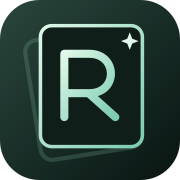
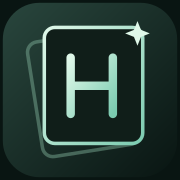
feat: rebrand product as HoloKeep

diff --git a/index.html b/index.html
@@ -9,15 +9,15 @@
   <meta http-equiv="Expires" content="0" />
   <meta name="apple-mobile-web-app-capable" content="yes" />
   <meta name="apple-mobile-web-app-status-bar-style" content="black-translucent" />
-  <meta name="apple-mobile-web-app-title" content="RareWorth" />
-  <link rel="icon" href="icon-rareworth.svg?build=168-product-shell-cleanup" type="image/svg+xml" />
-  <link rel="apple-touch-icon" href="icon-rareworth-180.png?build=168-product-shell-cleanup" />
-  <script src="brand-v172.js?build=172-brand-foundation"></script>
-  <title>RareWorth · Zoek. Bewaar. Check.</title>
+  <meta name="apple-mobile-web-app-title" content="HoloKeep" />
+  <link rel="icon" href="icon-rareworth.svg?build=173-holokeep-rebrand" type="image/svg+xml" />
+  <link rel="apple-touch-icon" href="icon-rareworth-180.png?build=173-holokeep-rebrand" />
+  <script src="brand-v172.js?build=173-holokeep-rebrand"></script>
+  <title>HoloKeep · Zoek. Bewaar. Check.</title>
   <link rel="stylesheet" href="style-v137-product.css?build=168-product-shell-cleanup" />
   <link rel="stylesheet" href="style-v148-polish.css?build=168-product-shell-cleanup" />
   <link rel="stylesheet" href="style-v150-minimal.css?build=168-product-shell-cleanup" />
-  <link rel="manifest" href="manifest.json?build=168-product-shell-cleanup" />
+  <link rel="manifest" href="manifest.json?build=173-holokeep-rebrand" />
   <link rel="stylesheet" href="style-v153-mobile.css?build=168-product-shell-cleanup" />
   <link rel="stylesheet" href="account-v170.css?build=170b-account-cloud-sync" />
   <link rel="stylesheet" href="onboarding-v171.css?build=171-1-launch-gate" />
@@ -25,9 +25,9 @@
 <body class="onboarding-open">
   <section id="onboarding" role="dialog" aria-modal="true" aria-labelledby="onboardingTitle">
     <div class="onboardingContent">
-      <div class="onboardingBrand"><img src="icon-rareworth.svg?build=168-product-shell-cleanup" alt="" /><strong>RareWorth</strong></div>
+      <div class="onboardingBrand"><img src="icon-rareworth.svg?build=173-holokeep-rebrand" alt="" /><strong>HoloKeep</strong></div>
       <p class="onboardingEyebrow">POKÉMON TCG COLLECTIE</p>
-      <h1 id="onboardingTitle">Welkom bij RareWorth</h1>
+      <h1 id="onboardingTitle">Welkom bij HoloKeep</h1>
       <p>Zoek kaarten, beheer je collectie en bewaar je gegevens veilig.</p>
       <div id="onboardingLoading" hidden><p role="status">Je account openen…</p><button id="onboardingSkip" type="button" class="onboardingSecondary">Doorgaan als gast</button></div>
       <div id="onboardingChoices">
@@ -65,9 +65,9 @@
     <header class="topbar">
       <button type="button" class="brandCluster" id="brandHomeBtn" aria-label="Ga naar zoeken">
         <span class="brandMark" aria-hidden="true">
-          <img class="brandIcon" src="icon-rareworth.svg?build=168-product-shell-cleanup" alt="" />
+          <img class="brandIcon" src="icon-rareworth.svg?build=173-holokeep-rebrand" alt="" />
         </span>
-        <span class="brandText"><strong>RareWorth</strong><small>Je kaarten. Goed bewaard.</small></span>
+        <span class="brandText"><strong>HoloKeep</strong><small>Je kaarten. Goed bewaard.</small></span>
       </button>
       <div id="status" class="status statusChip" role="status" aria-live="polite">Klaar</div>
     </header>
@@ -76,7 +76,7 @@
       <!-- SCAN -->
       <section class="tabView" data-view="scan" aria-labelledby="navScan">
         <div class="scanHero">
-          <div><span class="eyebrow">Scanner</span><h1>Scan een kaart</h1><p>Maak een foto. RareWorth doet de rest automatisch.</p></div>
+          <div><span class="eyebrow">Scanner</span><h1>Scan een kaart</h1><p>Maak een foto. HoloKeep doet de rest automatisch.</p></div>
           <button type="button" class="prefsPill" id="scanPrefsBtn" aria-label="Open zoekvoorkeuren"><span id="scanPrefsText">EN · NM</span><svg viewBox="0 0 24 24" aria-hidden="true"><path d="m9 18 6-6-6-6"/></svg></button>
         </div>
 
@@ -262,7 +262,7 @@
 
       <!-- SETTINGS -->
       <section class="tabView" data-view="settings" aria-labelledby="navSettings">
-        <div class="screenIntro compact"><div><span class="eyebrow">RareWorth</span><h2>Instellingen</h2><p>Voorkeuren, privacy en backup.</p></div></div>
+        <div class="screenIntro compact"><div><span class="eyebrow">HoloKeep</span><h2>Instellingen</h2><p>Voorkeuren, privacy en backup.</p></div></div>
 
         <section class="surface settingsCard">
           <div class="settingsRow"><div class="settingsIcon"><svg viewBox="0 0 24 24"><path d="M12 3 5 6v5c0 4.7 2.8 8 7 10 4.2-2 7-5.3 7-10V6l-7-3Z"/><path d="m9 12 2 2 4-4"/></svg></div><div><b>Privacy</b><small>Je collectie blijft lokaal op je toestel</small></div><span class="mutedBadge">Lokaal</span></div>
@@ -302,7 +302,7 @@
         </section>
 
         <section class="surface settingsCard"><h3>Startscherm</h3><button id="onboardingReopen" type="button" class="ghost">Startscherm opnieuw bekijken</button></section>
-        <section class="surface aboutCard" aria-label="Over RareWorth"><div><b>Over RareWorth</b><small>Je kaarten. Goed bewaard.</small><small>Collectie lokaal opgeslagen</small></div><div class="aboutMeta"><span>v172 · Beta</span></div></section>
+        <section class="surface aboutCard" aria-label="Over HoloKeep"><div><b>Over HoloKeep</b><small>Je kaarten. Goed bewaard.</small><small>Collectie lokaal opgeslagen</small></div><div class="aboutMeta"><span>v173 · Beta</span></div></section>
       </section>
     </div>
   </main>
@@ -398,7 +398,7 @@
   <script src="jp-image-library-v161.js?build=161-jp-image-library"></script>
   <script src="ui-v137-focus.js?build=160-jp-set-coverage"></script>
   <script src="ui-v137-collection.js?build=165-jp-source-identity"></script>
-  <script src="ui-v150-experience.js?build=171-onboarding-product-polish"></script>
+  <script src="ui-v150-experience.js?build=173-holokeep-rebrand"></script>
   <script src="ui-v154-keyboard.js?build=154-keyboard"></script>
   <script src="ui-v153-mobile.js?build=154-keyboard"></script>
   <script src="cloud-sync-v170.js?build=170b-account-cloud-sync"></script>

diff --git a/sw.js b/sw.js
@@ -1,14 +1,14 @@
 'use strict';
 // Bump this version when the shell changes. Never cache remote card data/artwork.
-const CACHE = 'rareworth-shell-v172';
+const CACHE = 'rareworth-shell-v173';
 const SCOPE = new URL('./', self.registration.scope);
 const INDEX = new URL('index.html', SCOPE).href;
 const ASSETS = [
   'index.html',
-  'brand-v172.js?build=172-brand-foundation',
-  'manifest.json?build=168-product-shell-cleanup',
-  'icon-rareworth.svg?build=168-product-shell-cleanup',
-  'icon-rareworth-180.png?build=168-product-shell-cleanup',
+  'brand-v172.js?build=173-holokeep-rebrand',
+  'manifest.json?build=173-holokeep-rebrand',
+  'icon-rareworth.svg?build=173-holokeep-rebrand',
+  'icon-rareworth-180.png?build=173-holokeep-rebrand',
   'icon-rareworth-192.png', 'icon-rareworth-512.png',
   'style-v137-product.css?build=168-product-shell-cleanup',
   'style-v148-polish.css?build=168-product-shell-cleanup',
@@ -27,7 +27,7 @@ const ASSETS = [
   'jp-image-library-v161.js?build=161-jp-image-library',
   'ui-v137-focus.js?build=160-jp-set-coverage',
   'ui-v137-collection.js?build=165-jp-source-identity',
-  'ui-v150-experience.js?build=171-onboarding-product-polish',
+  'ui-v150-experience.js?build=173-holokeep-rebrand',
   'ui-v154-keyboard.js?build=154-keyboard',
   'ui-v153-mobile.js?build=154-keyboard',
   'cloud-sync-v170.js?build=170b-account-cloud-sync',

diff --git a/ui-v150-experience.js b/ui-v150-experience.js
@@ -92,7 +92,7 @@
       // Home Recent presentation only: keep external-beta artwork elsewhere intact.
       if(isDirect&&target.closest('#homeRecentCards')){
         target.dataset.imageStatus='EXTERNAL_BETA';target.classList.remove('artLoading','artUnavailable');
-        target.classList.add('homeJpPlaceholder');target.textContent='RareWorth · JP';return;
+        target.classList.add('homeJpPlaceholder');target.textContent=window.RareWorthBrand.name+' · JP';return;
       }
       const img=new Image();img.alt=card.name||'Kaart';img.decoding='async';
       img.onload=()=>{if(pending.get(target)===card)target.classList.remove('artLoading');};

diff --git a/brand-v172.js b/brand-v172.js
@@ -3,11 +3,11 @@
   'use strict';
   if ('RareWorthBrand' in window) return;
   const brand = Object.freeze({
-    name: 'RareWorth',
-    shortName: 'RareWorth',
+    name: 'HoloKeep',
+    shortName: 'HoloKeep',
     tagline: 'Je kaarten. Goed bewaard.',
-    appTitle: 'RareWorth · Zoek. Bewaar. Check.',
-    version: 'v172',
+    appTitle: 'HoloKeep · Zoek. Bewaar. Check.',
+    version: 'v173',
     status: 'Beta'
   });
   Object.defineProperty(window, 'RareWorthBrand', {value: brand, enumerable: true});

diff --git a/docs/BRAND-V172.md b/docs/BRAND-V172.md
@@ -170,19 +170,20 @@ G = PWA/manifest; H = tests/docs. Multiple categories can apply within one file.
 | artifacts/rareworth-v150/v147-pending-1280.png | E | — | yes |
 | artifacts/rareworth-v150/v147-pending-375.png | E | — | yes |
 | assets/cards/jp/README.md | B, H | 1, 61, 70 | no |
-| brand-v172.js | A, B | 4, 6, 7, 9, 13 | no |
+| brand-v172.js | A, B | 4, 13 | no |
 | cloud-adapter-v170.js | B, C, D | 4, 7, 84 | no |
 | cloud-sync-v170.js | B, D | 6, 9, 148 | no |
 | data/jp-cardmarket-audit-v165.json | H | 4734, 10906, 14640, 14686, 27368, 27419, 27474, 27575, 27630, 27685, 27740, 27790, 27836, 27887, 27937, 27983, 28080, 28135, 28190, 28240, 28385, 28436, 28486, 28532, 31141, 31196, 33827, 33873, 33919, 33965, 34016, 37735, 38537, 38583, 38684, 38735, 38790, 38845, 38955, 39005, 39111, 39166, 39216, 39267 | no |
+| docs/BRAND-V173.md | B, C, D, E, H | 3, 5, 13, 14, 15, 16, 17, 26, 32, 57, 62 | no |
 | docs/CLOUD-SYNC-V170.md | B, C, D, H | 1, 3, 12, 38, 62, 87, 123, 164, 178, 192, 203 | no |
 | icon-rareworth-180.png | E | — | yes |
 | icon-rareworth-192.png | E | — | yes |
 | icon-rareworth-512.png | E | — | yes |
 | icon-rareworth.svg | A, E | — | yes |
-| index.html | A, E, G | 12, 13, 14, 16, 28, 30, 68, 70, 79, 265, 305 | no |
+| index.html | A, E, G | 13, 14, 28, 68 | no |
 | jp-image-library-v161.js | B | 4, 35 | no |
 | jp-image-manifest-v161.js | B | 3 | no |
-| manifest.json | A, E, G | 2, 3, 5, 6 | no |
+| manifest.json | A, E, G | 5, 6 | no |
 | onboarding-v171.js | B, C, D | 5, 70, 71 | no |
 | pwa-v169.js | G | 1 | no |
 | scripts/generate-jp-artwork-v158.cjs | H | 4, 26 | no |
@@ -196,8 +197,9 @@ G = PWA/manifest; H = tests/docs. Multiple categories can apply within one file.
 | sw.js | B, E, F, G | 3, 10, 11, 12, 55 | no |
 | tests/account-cloud-browser-v170b.test.cjs | B, D, H | 44, 106 | no |
 | tests/account-cloud-v170b.test.cjs | B, D, H | 17, 38, 142, 143, 146, 147, 149, 150, 175 | no |
-| tests/brand-allowlist-v172.json | B, C, D, E, F, H | 3, 4, 5, 6, 8, 9, 10, 13, 14, 15, 16, 17, 20, 21, 22, 25, 26, 27, 30, 31, 32, 33, 34, 35, 36, 37, 38, 39, 40, 43, 44, 47, 50, 51, 52, 53, 56, 57, 58, 61, 64, 67, 69, 70, 71, 72, 73, 74, 75, 76, 77, 78, 79, 80, 81, 82, 83, 84, 85, 86, 87, 88, 89, 90, 91, 92, 93, 94, 96, 97, 98, 99, 100, 103, 104, 105, 106, 107, 110, 111, 112, 113, 114, 117, 118, 121, 122, 123 | no |
-| tests/brand-foundation-v172.test.cjs | B, H | 9, 13, 14, 16, 17, 19, 21, 25, 39, 58, 59, 60, 64, 66, 67, 79 | no |
+| tests/brand-allowlist-v172.json | B, C, D, E, F, H | 3, 4, 5, 6, 8, 9, 10, 13, 14, 17, 18, 19, 22, 23, 24, 27, 28, 29, 30, 33, 34, 37, 40, 41, 44, 45, 46, 49, 52, 55, 57, 58, 59, 60, 61, 62, 63, 64, 65, 66, 67, 68, 69, 70, 71, 72, 73, 74, 75, 76, 77, 78, 79, 80, 81, 82, 84, 85, 86, 87, 88, 91, 92, 93, 94, 95, 98, 99, 100, 101, 102, 105, 106, 109, 110, 111 | no |
+| tests/brand-foundation-v172.test.cjs | B, H | 9, 13, 16, 17, 19, 21, 25, 79 | no |
+| tests/brand-rebrand-v173.test.cjs | B, C, E, H | 6, 9, 10, 17, 25, 28, 32, 50, 53, 57, 60, 64, 65, 77, 78, 79, 82 | no |
 | tests/brand-support-v172.cjs | B, C, D, E, H | 16, 17, 18, 19, 21 | no |
 | tests/cloud-schema-v170.test.cjs | B, D, H | 5, 7, 8, 11, 23, 27, 42, 48, 53, 54, 56, 62, 74, 87 | no |
 | tests/cloud-sync-v170.test.cjs | B, H | 135, 142 | no |
@@ -207,10 +209,11 @@ G = PWA/manifest; H = tests/docs. Multiple categories can apply within one file.
 | tests/jp-image-library-browser-v161.test.cjs | B, H | 18, 40, 58, 63, 68 | no |
 | tests/jp-image-library-v161.test.cjs | B, H | 9, 11 | no |
 | tests/keyboard-v154.test.cjs | B, H | 48 | no |
-| tests/launch-gate-v171-1.test.cjs | B, C, H | 5, 7, 49, 50, 56, 60, 66, 74, 77, 86 | no |
+| tests/launch-gate-v171-1.test.cjs | B, C, H | 5, 7, 49, 50, 56, 60, 66, 74, 77 | no |
 | tests/onboarding-product-v171.test.cjs | B, C, H | 44, 52, 53, 54, 68, 72, 75, 78, 79, 83, 88, 111, 112 | no |
-| tests/product-shell-v168.test.cjs | H | 12, 13, 17, 18 | no |
-| tests/pwa-v169.test.cjs | B, E, F, H | 21, 24, 27, 43, 108, 133, 142, 143, 165, 183, 192, 199 | no |
+| tests/product-shell-v168.test.cjs | H | 18 | no |
+| tests/pwa-v169.test.cjs | B, E, F, H | 24, 27, 40, 43, 108, 133, 142, 143, 183, 192, 199 | no |
+| tests/rebrand-scope-v173.cjs | B, H | 5, 6 | no |
 | ui-v150-experience.js | A, B | 40, 55, 68, 83, 95 | no |
 | ui-v153-mobile.js | B | 8, 31 | no |
 | ui-v154-keyboard.js | B | 17, 24, 76 | no |

diff --git a/docs/BRAND-V173.md b/docs/BRAND-V173.md
@@ -1,0 +1,71 @@
+# HoloKeep v173 — product-facing rebrand
+
+VISIBLE BRAND: **HoloKeep**. LEGACY INTERNAL BRAND: **RareWorth**.
+
+The central frozen `window.RareWorthBrand` now contains HoloKeep, the unchanged
+tagline, HoloKeep document title and v173/Beta. Static HTML fallbacks, Apple title,
+manifest names and the home JP artwork placeholder also show HoloKeep. The placeholder
+reads the brand config; no artwork resolution or Recent behavior changes.
+
+## Compatibility and data
+
+There is no data migration, copy, rename or deletion. Keep all existing globals:
+RareWorthBrand, RareWorthCloudAdapter, RareWorthCloudSync, RareWorthAccount,
+RareWorthSupabaseConfig, RareWorthJPImageLibrary/Manifest and RareWorthKeyboard.
+Keep collection `cardscout_collection_v133`, `rareworth_cloud_sync_v170`,
+`rareworth_device_id_v170`, `rareworth_account_enabled_v170`,
+`rareworth_guest_session_v171_1`, `rareworth_onboarding_v171` and all Recent/Favorites
+keys. Visible branding is independent of these compatibility contracts.
+
+Supabase project name/ref/URL/keys, RPCs, tables, RLS, auth redirects/PKCE/session
+logic and migrations are unchanged. No live backend operation or real authmail is
+part of branch validation. Repository and Pages URL remain whatnotai-mobile.
+
+## Icon and cache
+
+Existing icon filenames remain `icon-rareworth.svg` and the 180/192/512 PNG variants.
+The new vector has a dark-green rounded tile, two offset cards, geometric H and
+mint sparkle. No fonts, text glyphs, Pokémon assets or external rendering services.
+PNG files are rendered with the existing locked Sharp dependency: resize the SVG
+to each size and encode as PNG. The full background is opaque.
+
+Cache name: `rareworth-shell-v173`. Retaining the prefix preserves the existing
+scoped cleanup regex and rollback compatibility. No cleanup-rule expansion,
+unregister or reload changes. Brand, manifest, SVG/Apple icon and presentation
+script URLs use `173-holokeep-rebrand`; unchanged manifest PNG paths are fetched
+with cache reload during install. Precache is same-origin only. Install URL,
+scope, display, orientation and colours remain unchanged.
+
+## Remaining legacy occurrence classification
+
+The exact production-line allowlist is `tests/brand-allowlist-v172.json`.
+All remaining occurrences fall into these categories; none are visible brand copy:
+
+| Location | Allowed legacy purpose |
+|---|---|
+| brand-v172.js | Read-only global name |
+| index.html, manifest.json | Existing icon filenames only |
+| account-ui-v170.js, onboarding-v171.js | Globals and existing storage keys |
+| cloud-adapter-v170.js, cloud-sync-v170.js | Globals, storage, signature prefix, RPC names |
+| supabase-client-v170.js, supabase-config-v170.js | Existing globals |
+| supabase/migrations/* | Historical filenames, tables, RPCs, policies and triggers |
+| jp-image-library-v161.js, jp-image-manifest-v161.js | Existing global APIs |
+| ui-v150-experience.js | Brand and image-library global references |
+| ui-v153-mobile.js, ui-v154-keyboard.js | Keyboard API/event identifiers |
+| sw.js | Cache prefix, cleanup regex and icon paths |
+| pwa-v169.js | Internal source comment only |
+| artifacts/rareworth-v150/* | Historical test artifact paths/logs, never app-loaded |
+
+The generated tracked-repository appendix in BRAND-V172.md is kept current for CI;
+its v172 design notes describe the pre-rebrand state and are superseded here.
+Other tests/docs/scripts may retain historical names and technical fixtures.
+New visible RareWorth copy must fail both the exact allowlist and DOM/text checks.
+
+## Verification
+
+The v173 suite checks config, manifest/Apple metadata, static pre-script content,
+SVG parsing/monogram, opaque nonempty PNGs/dimensions, all five screens and widths
+320/375/390/430. It saves 390px screenshots to the OS temporary directory only when
+`HOLOKEEP_SCREENSHOTS` is set. Existing session/auth/cloud/routing regressions remain
+mandatory. The worker update test installs the actual previous v172 worker/assets,
+then updates to v173 and verifies data, same-origin cache and unrelated cache survival.
